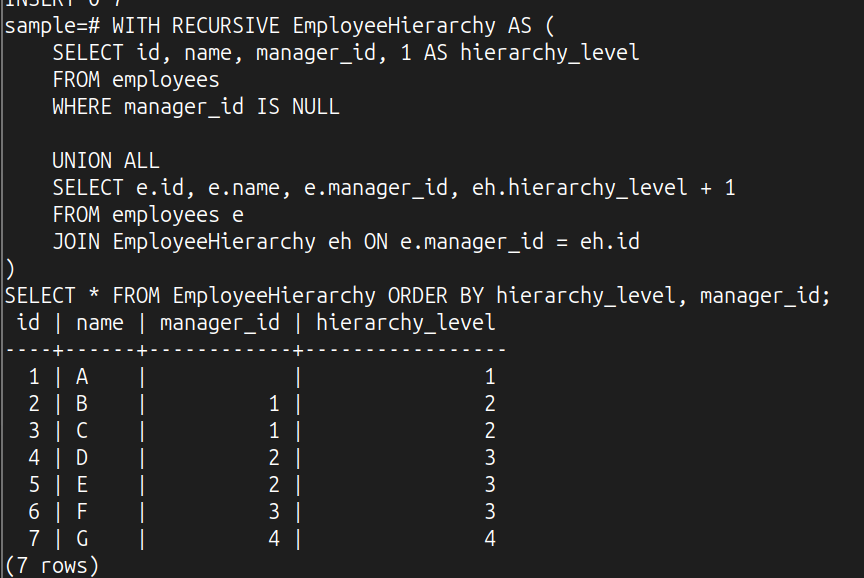
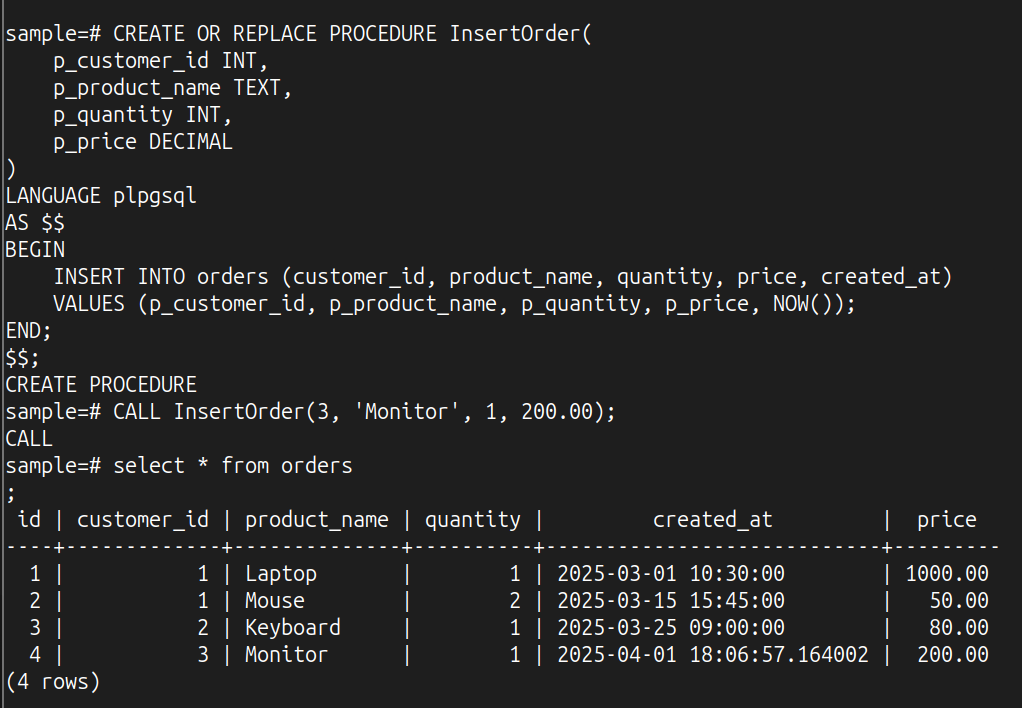
implemented procedures and functions

Changed region(s): [[0.0, 0.218, 0.9688, 1.0], [0.0, 0.0, 0.75, 0.218], [0.5625, 0.6851, 0.5938, 0.7163]]

diff --git a/README.md b/README.md
@@ -7,24 +7,19 @@
 ## Database: `sample`
 ---
 
-### Common Table Expressions (CTEs)
+### Stored Procedures and Functions
 
-- **`WITH OrderSummary AS (...)`**  
-    Creates a temporary named result set.  
-    Aggregates total orders and total spending per customer.  
-    The main query joins customers with `OrderSummary`.
+Procedures and functions are reusable database objects that encapsulate logic to perform specific tasks or calculations. They help in maintaining modularity and reusability within the database.
 
----
-### Recursive Query Explanation
+- **Procedures**: Typically used to perform actions such as `INSERT`, `UPDATE`, or `DELETE` operations. They can also include complex business logic and support OUT parameters to return values.
 
-1. **Base Case (`manager_id IS NULL`)**  
-   - Selects the top-level employee in the hierarchy.  
-   - Example: Alice (CEO) is selected because she has no manager (`manager_id IS NULL`).
+- **Functions**: Designed to return a value and are often used in `SELECT` queries. Functions are ideal for calculations, data transformations, or validations.
 
-2. **Recursive Query (`JOIN ON manager_id`)**  
-   - Iteratively fetches employees reporting to the previous level.  
-   - Example: Finds employees whose `manager_id` matches the `employee_id` of the previous level.
+#### Procedures (CALL)
+- Perform actions such as `INSERT`, `UPDATE`, and `DELETE`.
 
-3. **`hierarchy_level + 1`**  
-   - Tracks the depth of each employee in the hierarchy.  
-   - Example: Alice is at level 1, her direct reports are at level 2, and so on.
+#### Functions (SELECT)
+- Return values and can be used in queries.
+
+#### OUT Parameters
+- Enable procedures to return values.
